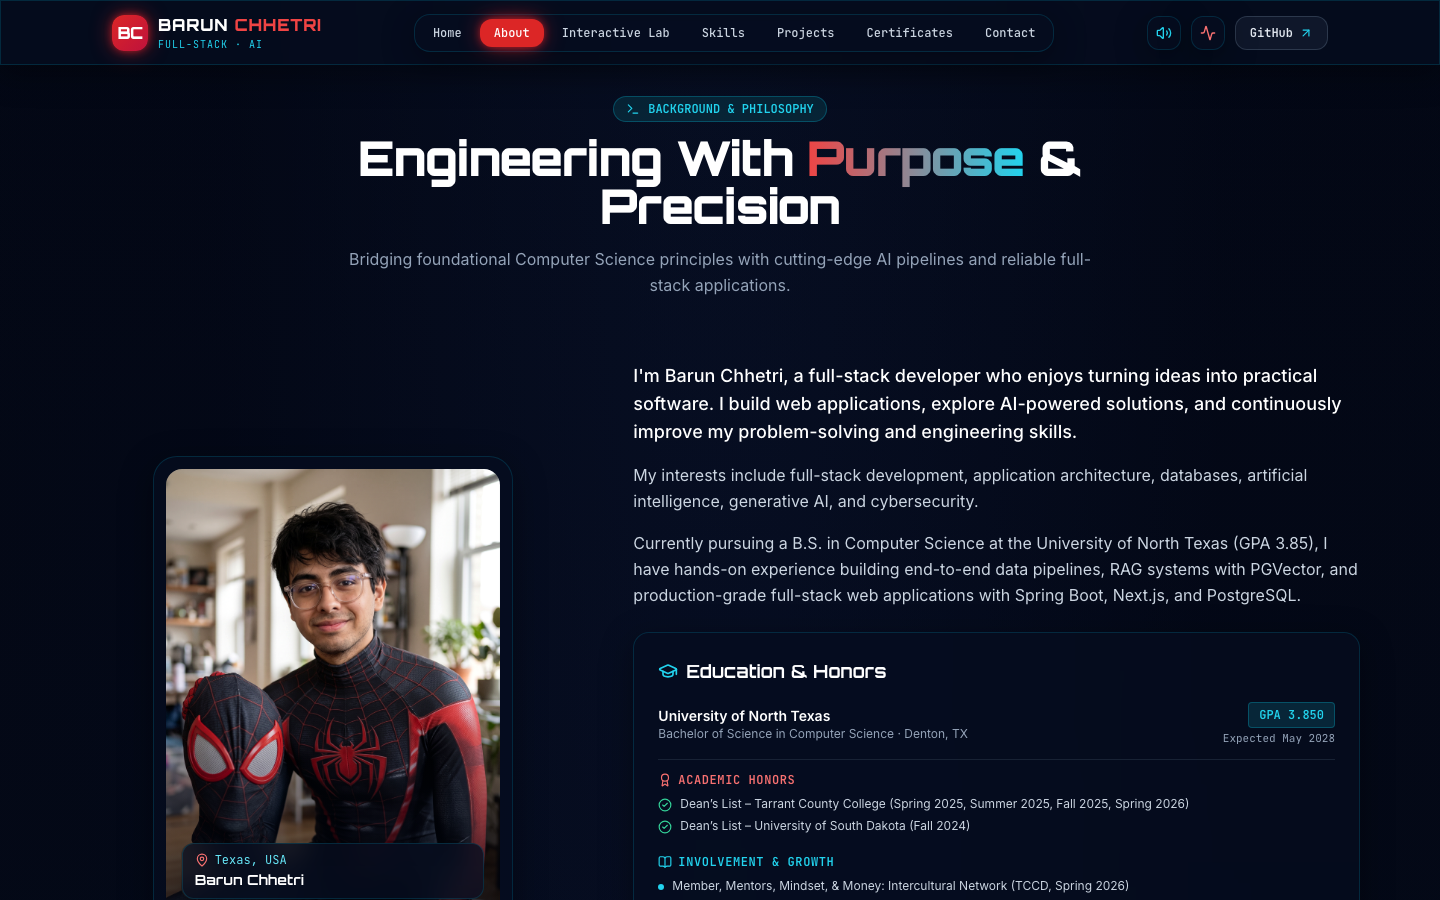
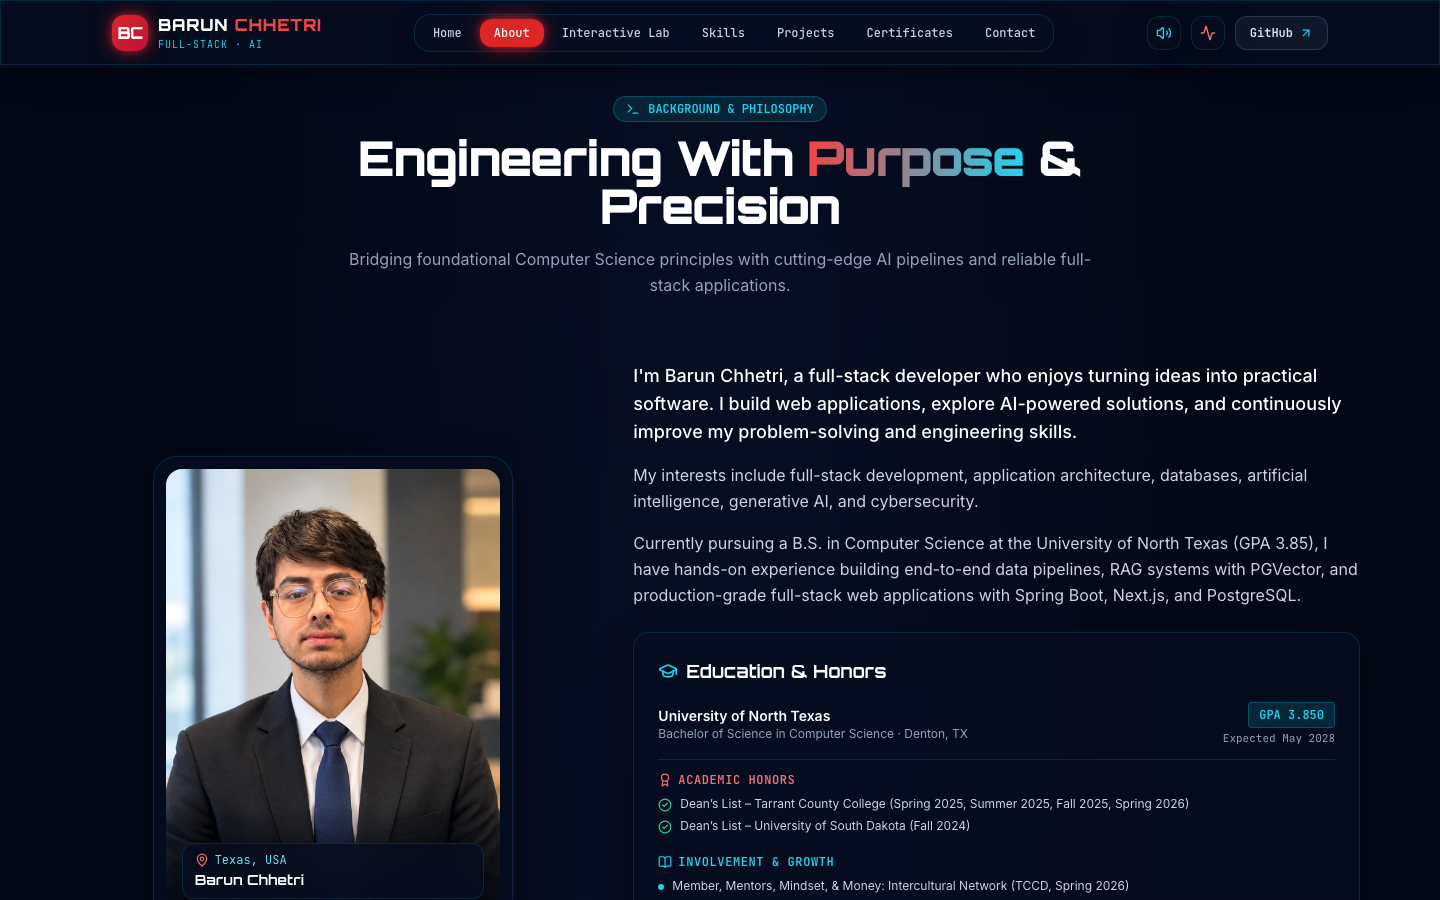
feat: replace profile picture with new professional headshot

Changed region(s): [[0.0938, 0.4978, 0.375, 0.9956], [0.3125, 0.9956, 0.3438, 1.0]]

diff --git a/src/components/About.tsx b/src/components/About.tsx
@@ -46,12 +46,16 @@ export const About: React.FC = () => {
           >
             <div className="relative w-full max-w-[360px] rounded-3xl p-3 spider-glass border border-red-500/30 shadow-spider-red group">
               <div className="relative rounded-2xl overflow-hidden aspect-[3/4] bg-slate-900 shadow-inner">
-                <img
-                  src={PERSONAL_INFO.profileFallback}
-                  alt="Barun Chhetri"
-                  className="w-full h-full object-cover object-top filter contrast-[1.03] group-hover:scale-105 transition-transform duration-500"
-                />
-                <div className="absolute inset-0 bg-gradient-to-t from-[#030712] via-transparent to-transparent opacity-80" />
+                <picture>
+                  <source srcSet={PERSONAL_INFO.profileImage} type="image/webp" />
+                  <img
+                    src={PERSONAL_INFO.profileFallback}
+                    alt="Barun Chhetri"
+                    className="w-full h-full object-cover object-top filter contrast-[1.03] group-hover:scale-105 transition-transform duration-500"
+                    loading="lazy"
+                  />
+                </picture>
+                <div className="absolute inset-x-0 bottom-0 h-28 bg-gradient-to-t from-[#030712] via-[#030712]/60 to-transparent pointer-events-none" />
                 <div className="absolute bottom-4 left-4 right-4">
                   <div className="px-3 py-2 rounded-xl spider-glass border border-slate-700/60 backdrop-blur-md">
                     <p className="text-xs font-mono text-cyan-300 flex items-center gap-1.5">

diff --git a/src/components/Hero.tsx b/src/components/Hero.tsx
@@ -163,7 +163,7 @@ export const Hero: React.FC = () => {
               </picture>
 
               {/* Spider-Man Red and Cyan Rim Light Gradients */}
-              <div className="absolute inset-0 bg-gradient-to-t from-[#030712] via-transparent to-transparent opacity-80" />
+              <div className="absolute inset-x-0 bottom-0 h-32 bg-gradient-to-t from-[#030712] via-[#030712]/60 to-transparent pointer-events-none" />
               <div className="absolute inset-0 bg-gradient-to-r from-red-600/15 via-transparent to-cyan-500/15 pointer-events-none" />
 
               {/* Holographic HUD Overlay on Hover */}
